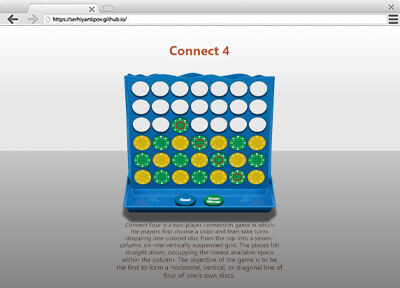
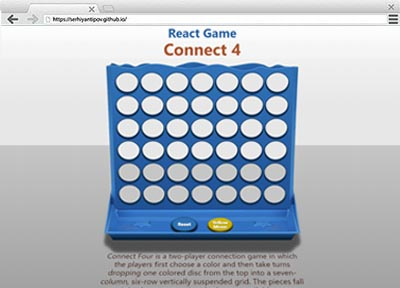
upd

diff --git a/about-me.html b/about-me.html
@@ -33,7 +33,7 @@
                 <article class="experience">
                     <h3>Experience</h3>
                     <p class="time-country-code">Noosphere
-                        (Roku&#160;BrightScript game&#160;developer)<span>09.2020&#160;&#8209;&#160;till&#160;now&#160;&#160;</span>
+                        (Roku&#160;game&#160;developer)<span>09.2020&#160;&#8209;&#160;till&#160;now&#160;&#160;</span>
                     </p>
                     <p class="time-country-code">UPQODE
                         (Front&#8209;end&#160;developer)<span>10.2019&#160;&#8209;&#160;08.2020</span></p>
@@ -56,7 +56,8 @@
                     <h3>Professional skill</h3>
                     <div>
                         <img src="img/skill/link_bright_script.png" alt="bright-script skill">
-                        <p><span>BrightScript </span>Intermediate&nbsp;level. Began&#8209;studying. 
+                        <!-- <p><span>BrightScript </span>Intermediate&nbsp;level. Began&#8209;studying.  -->
+                        <p><span>BrightScript </span>Basic knowledge. Intermediate&nbsp;level
                         </p>
                     </div>
                     <div>

diff --git a/index.html b/index.html
@@ -35,8 +35,8 @@
                                 <div class="bootstrap-skill skill"></div>
                         </div>
                 </a>
-                <a href="https://serhiyantipov.github.io/site_connect-four/" target="_blank" rel="noopener"><img
-                        src="img/site-title/connect-four.jpg" alt="link site connect-four">
+                <a href="https://serhiyantipov.github.io/react_connect-four/" target="_blank" rel="noopener"><img
+                        src="img/site-title/connect-four.jpg" alt="link React connect-four">
                         <div class="project-skill">
                                 <div class="react-skill skill"></div>
                                 <div class="node-skill skill"></div>
